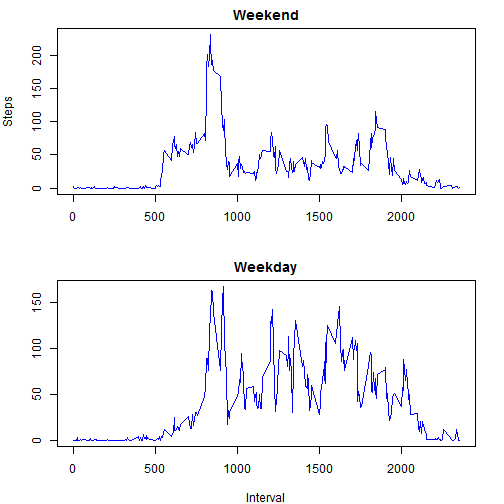
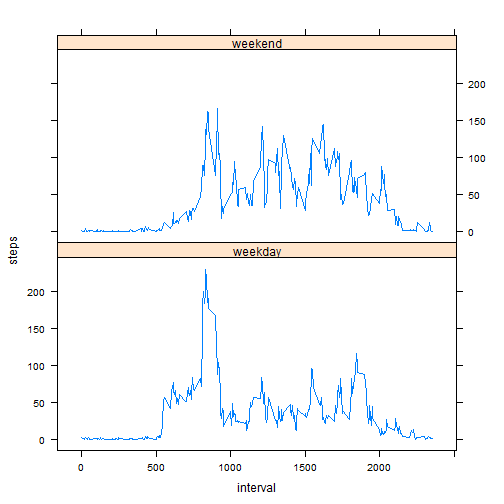
last

diff --git a/PA1_template.html b/PA1_template.html
@@ -345,7 +345,7 @@ wkd &lt;- subset(w2, day == &quot;Monday&quot; | day == &quot;Tuesday&quot; | da
     day == &quot;Thursday&quot; | day == &quot;Friday&quot;, select = c(interval, steps))
 </code></pre>
 
-<p>For weekdays:</p>
+<p>For weekends:</p>
 
 <pre><code class="r">five1 &lt;- tapply(wk$steps, wk$interval, mean)
 five1 &lt;- as.data.frame(five1)
@@ -353,7 +353,7 @@ five1 &lt;- cbind(as.numeric(rownames(five1)), five1)
 colnames(five1) &lt;- c(&quot;interval&quot;, &quot;steps&quot;)
 </code></pre>
 
-<p>for weekends:</p>
+<p>for weedays:</p>
 
 <pre><code class="r">five2 &lt;- tapply(wkd$steps, wkd$interval, mean)
 five2 &lt;- as.data.frame(five2)
@@ -363,20 +363,16 @@ colnames(five2) &lt;- c(&quot;interval&quot;, &quot;steps&quot;)
 
 <p>Comparing the two sets of data</p>
 
-<pre><code class="r">par(mfrow = c(2, 1))
-par(mar = c(4, 4, 2, 2))
-
-plot(five2$interval, five2$steps, type = &quot;l&quot;, main = &quot;Weekend&quot;, xlab = &quot;&quot;, ylab = &quot;Steps&quot;, 
-    col = &quot;blue&quot;)
-
-plot(five1$interval, five1$steps, type = &quot;l&quot;, main = &quot;Weekday&quot;, xlab = &quot;Interval&quot;, 
-    ylab = &quot;&quot;, col = &quot;blue&quot;)
+<pre><code class="r">five1$wkd = &quot;weekend&quot;
+five2$wkd = &quot;weekday&quot;
+plt = rbind(five1, five2)
+xyplot(steps ~ interval | wkd, layout = c(1, 2), typ = &quot;l&quot;, data = plt)
 </code></pre>
 
[2 lines of base64/hex data omitted]
 
-<p>The graphic shows that the most active period of time during weekends are during the first hours in the morning aproximatly from 8:00 to 10:00 am. 
-while during weedays the activity are more variable during the working hours. </p>
+<p>The graphic shows that the most active period of time during weekdays are during the first hours in the morning aproximatly from 8:00 to 10:00 am. 
+while during weekends the activity are more variable across the day. </p>
 
 </body>
 

diff --git a/PA1_template.md b/PA1_template.md
@@ -213,7 +213,7 @@ wkd <- subset(w2, day == "Monday" | day == "Tuesday" | day == "Wednesday" |
 ```
 
 
-For weekdays:
+For weekends:
 
 ```r
 five1 <- tapply(wk$steps, wk$interval, mean)
@@ -223,7 +223,7 @@ colnames(five1) <- c("interval", "steps")
 ```
 
 
-for weekends:
+for weedays:
 
 ```r
 five2 <- tapply(wkd$steps, wkd$interval, mean)
@@ -235,20 +235,15 @@ colnames(five2) <- c("interval", "steps")
 Comparing the two sets of data
 
 
-
 ```r
-par(mfrow = c(2, 1))
-par(mar = c(4, 4, 2, 2))
-
-plot(five2$interval, five2$steps, type = "l", main = "Weekend", xlab = "", ylab = "Steps", 
-    col = "blue")
-
-plot(five1$interval, five1$steps, type = "l", main = "Weekday", xlab = "Interval", 
-    ylab = "", col = "blue")
+five1$wkd = "weekend"
+five2$wkd = "weekday"
+plt = rbind(five1, five2)
+xyplot(steps ~ interval | wkd, layout = c(1, 2), typ = "l", data = plt)
 ```
 
 ![plot of chunk unnamed-chunk-17](figure/unnamed-chunk-17.png) 
 
 
-The graphic shows that the most active period of time during weekends are during the first hours in the morning aproximatly from 8:00 to 10:00 am. 
-while during weedays the activity are more variable during the working hours. 
+The graphic shows that the most active period of time during weekdays are during the first hours in the morning aproximatly from 8:00 to 10:00 am. 
+while during weekends the activity are more variable across the day. 
